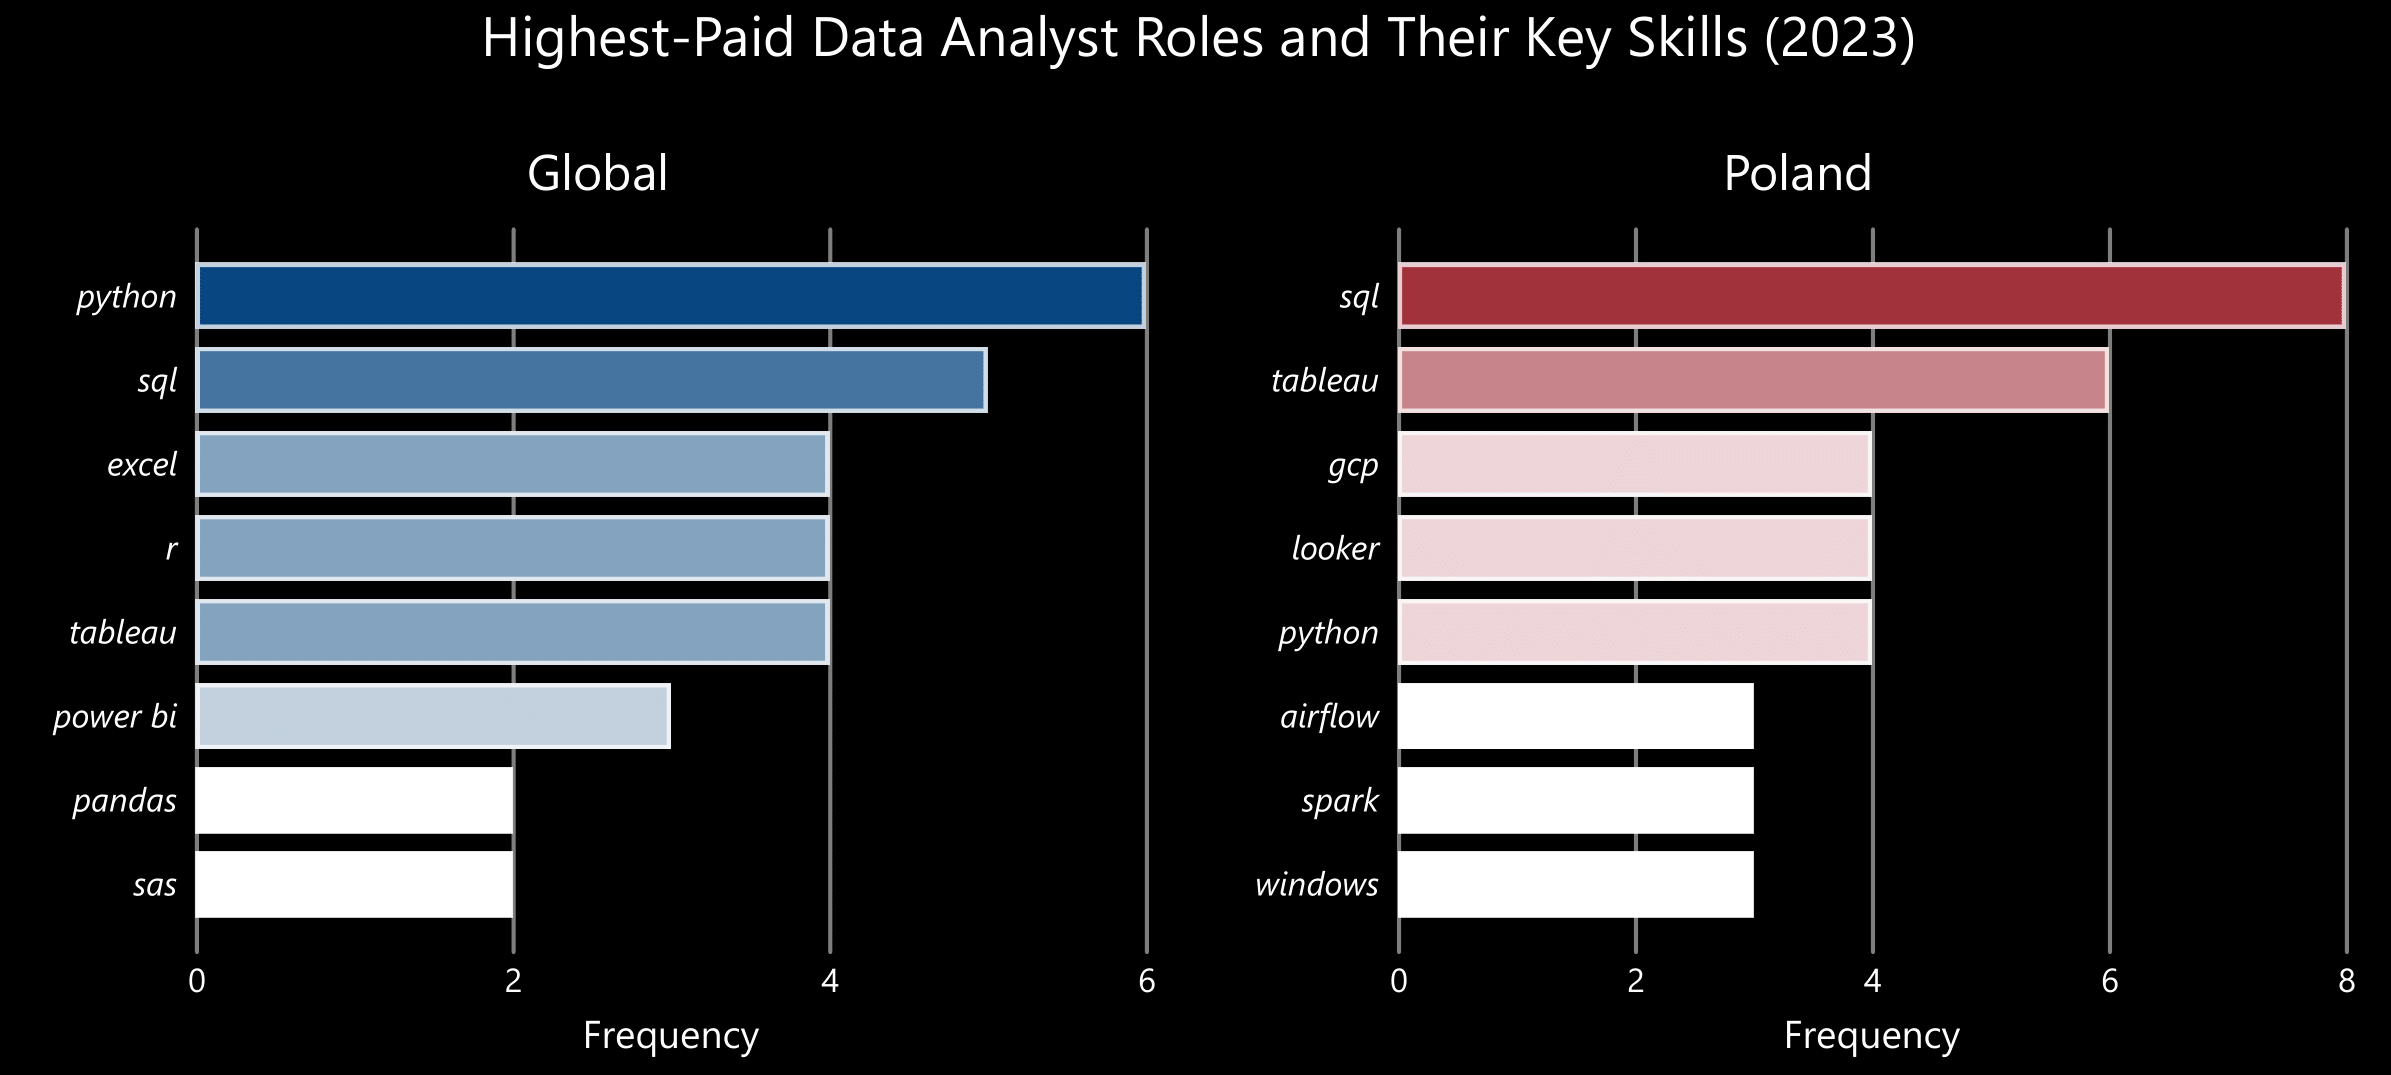
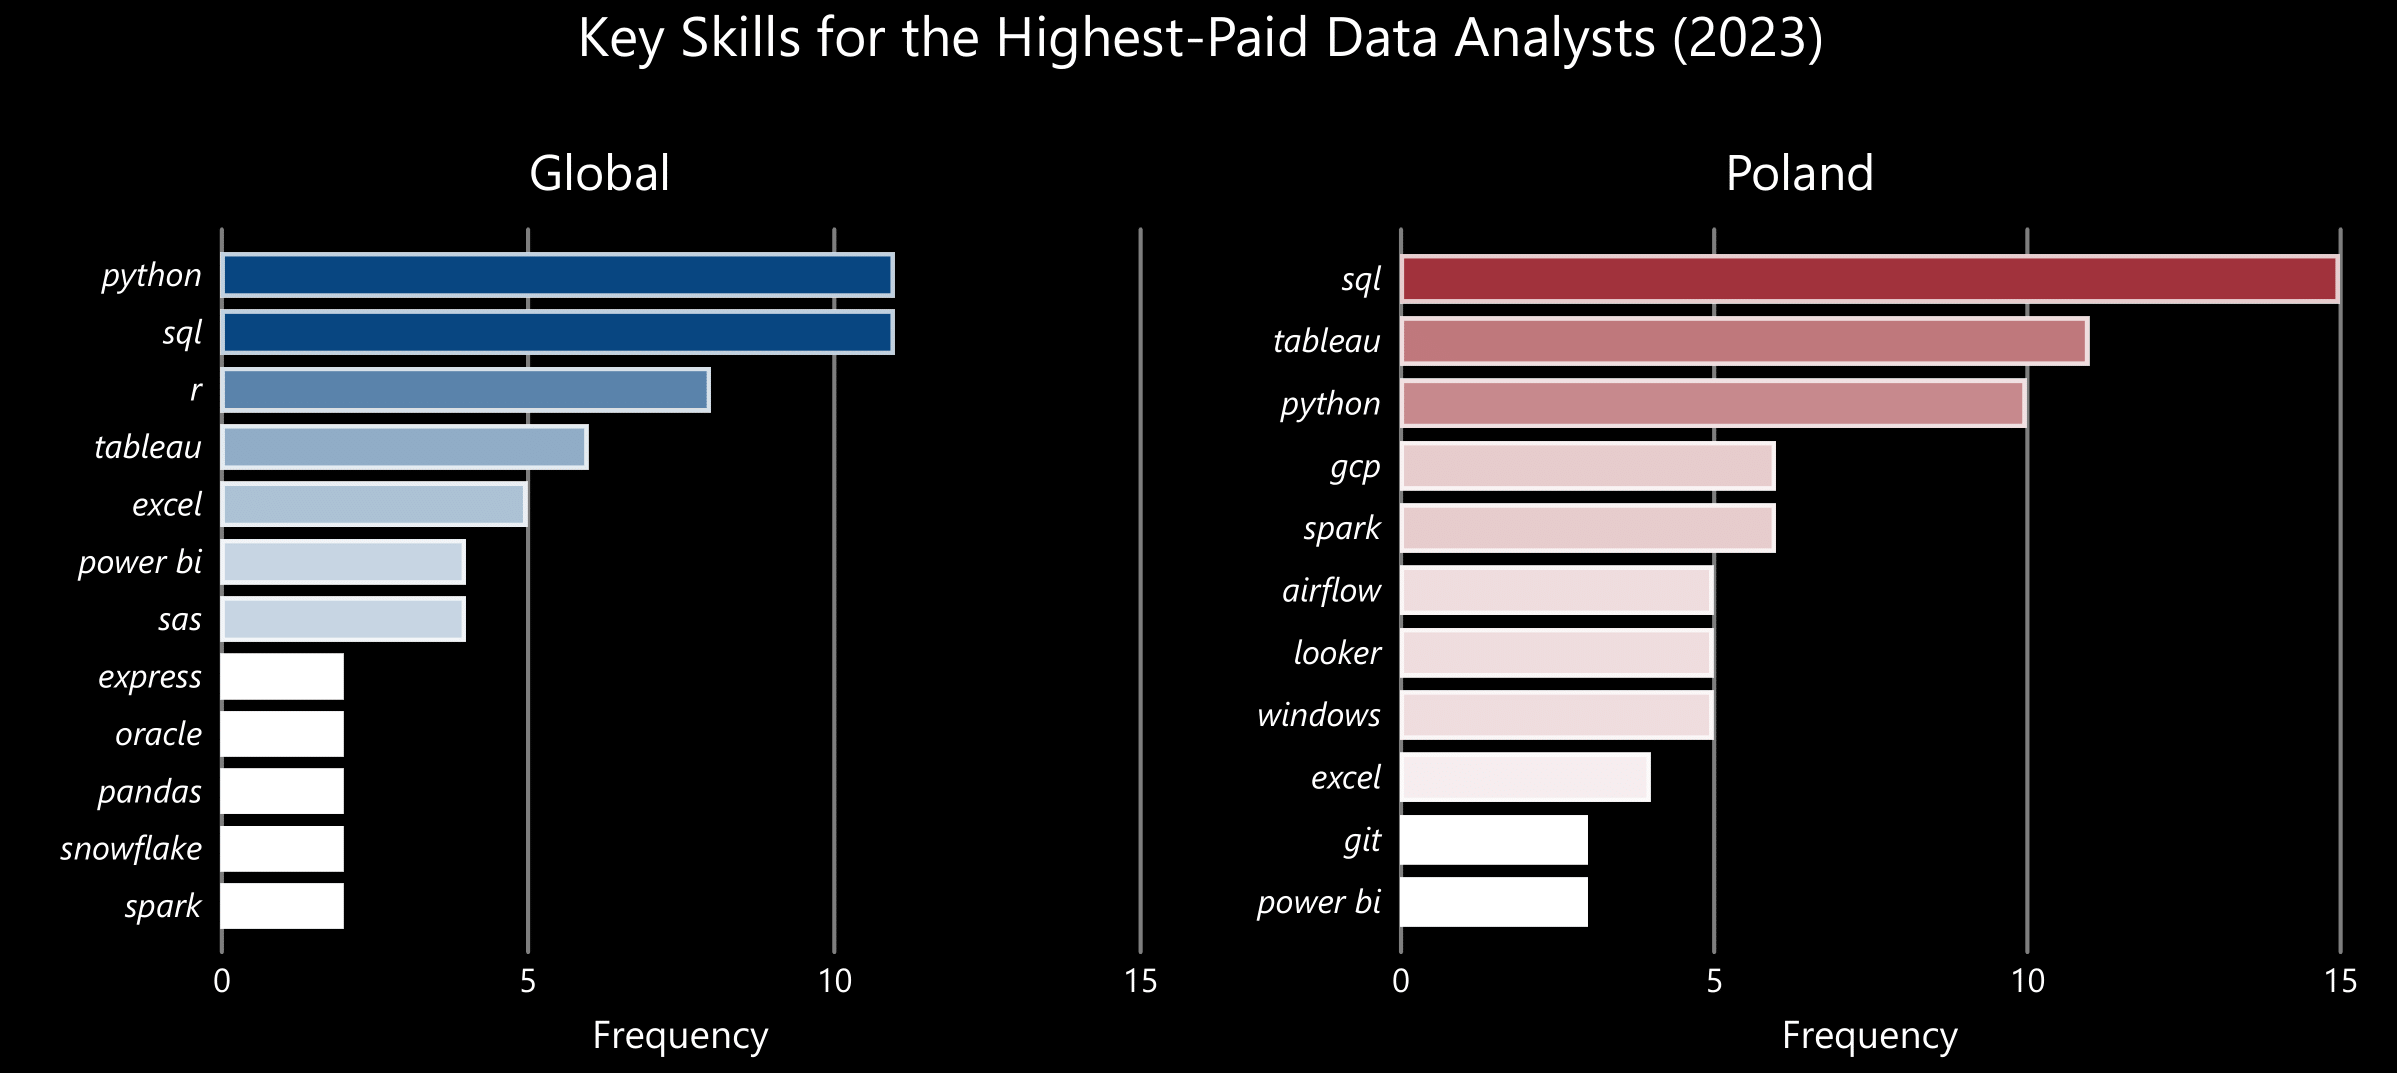
UP

diff --git a/README.md b/README.md
@@ -31,7 +31,7 @@ To conduct this analysis, I utilized several essential tools:
 📊 [**Power BI charts**](/assets/)
 
 # The Analysis
-Each query in this project was designed to explore key aspects of the data analyst job market, both globally and in Poland. Here’s how I approached each question:
+Each query in this project was designed to explore key aspects of the data analyst job market in 2023, both globally and in Poland. Here’s how I approached each question:
 
 ### 1. Top-Paying Data Analyst Jobs
 This queries pinpoints the highest-paying data analyst roles 💰, highlighting the most lucrative opportunities in the field.
@@ -77,13 +77,27 @@ ORDER BY
 	salary_year_avg DESC 
 LIMIT 10;
 ```
+**Key Takeways**
+
+**Global Market**:
+- **Salary Range**: Data Analyst salaries fall between $285K and $400K, with Mantys offering an exceptional $650K.
+- **Job Titles**: There's a wide range—from standard Data Analyst roles to specialized and leadership positions like Director of Safety Data Analysis and Head of Data Analytics.
+- **Key Companies**: Dominated by tech/AI leaders (Meta, Anthropic, OpenAI, Torc Robotics) and high-profile finance/security firms (Citigroup, Illuminate Mission Solutions). Leadership roles naturally command higher pay, and startups like Mantys are willing to offer premium salaries to attract top talent.
+
+**Polish Market**:
+- **Salary Range**: Salaries are more modest, with Data Architect roles at around $165K—roughly 50% higher than the more common Data Analyst roles, which typically hover around $111K.
+- **Job Titles**: The market offers a mix of general and specialized roles, including Data Architect, Marketing Data Analyst, and Data Analyst – Risk.
+- **Key Companies**: Recurrent postings from companies such as Alter Solutions, Allegro, Bosch Group, and SumUp highlight steady demand across various sectors.
+
+**Comparison**:
+- **Compensation**: Global salaries are significantly higher with a broader range and more opportunities at the leadership level, while the Polish market maintains a consistent, modest pay scale.
+- **Role Specialization**: Globally, there's a pronounced emphasis on high-level leadership and tech/AI innovation, whereas the Polish market focuses on specialization within traditional sectors, balancing between strategic roles (Data Architect) and general data analytics positions.
+
 ![Top Paying Jobs](assets/1_top_paying_jobs.PNG)
 *Bar charts generated in Power BI from my SQL query results, showcasing the top 10 highest-paying data analyst roles in 2023, both worldwide and in Poland, along with their corresponding salaries*
 
-Here's the breakdown of the top data analyst jobs in 2023:
-
 ### 2. Skills for Top Paying Jobs
-To identify the 🔧 most in-demand skills for the highest-paying jobs 💰 from the previous query, I merged job postings with skills data. This analysis reveals key competencies that employers prioritize for top-paying roles.
+To identify the 🔧 most in-demand skills for the highest-paying jobs 💰, I merged job postings with skills data and expand the limit of top-paying jobs to 20 to dive deeper into the market. This analysis reveals key competencies that employers prioritize for top-paying roles.
 ```sql
 --Global--
 WITH top_paying_jobs AS
@@ -103,7 +117,7 @@ WITH top_paying_jobs AS
     ORDER BY
         salary_year_avg DESC
     LIMIT
-        14
+        20
 )
 SELECT
     top_paying_jobs.*,
@@ -137,7 +151,7 @@ WITH top_paying_jobs AS
     ORDER BY
         salary_year_avg DESC
     LIMIT
-        10
+        20
 )
 SELECT
     top_paying_jobs.*,
@@ -151,10 +165,14 @@ INNER JOIN
 ORDER BY
     salary_year_avg DESC;
 ```
-![Top Paying Jobs Skills](assets/2_top_paying_jobs_skills.png)
-*Bar graphs illustrating the count of skills for the top 10 paying jobs for data analysts in 2023, both globally and in Poland*
+**Key Takeways**
 
-Here's the breakdown of the most demanded skills for the top 10 highest paying data analyst jobs in 2023:
+- **SQL**, **Python**, and **Tableau** are the top skills in both the global and Polish data analytics markets.
+- Poland places a stronger emphasis on big data and cloud technologies (**GCP**, **Spark**, **Airflow**), whereas globally, traditional analytics tools (**R**, **SAS**, **Power BI**) remain key for high-paying roles.
+- **Excel** continues to hold value in both markets, highlighting the ongoing relevance of spreadsheet skills despite the rise of advanced analytics tools.
+
+![Top Paying Jobs Skills](assets/2_top_paying_jobs_skills.png)
+*Bar graphs illustrating the count of the most important skills for the top 20 paying jobs for data analysts in 2023, both globally and in Poland*
 
 ### 3. In-Demand Skills for Data Analysts
 This query revealed the most commonly requested skills in job postings, highlighting key areas of high demand 🔥.
